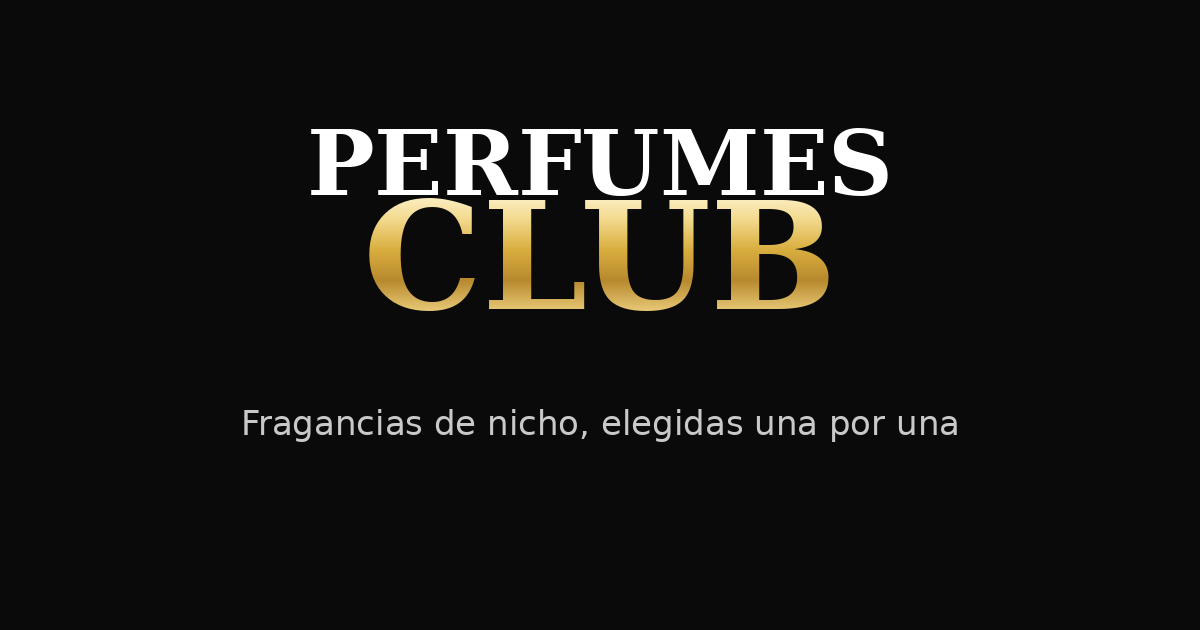
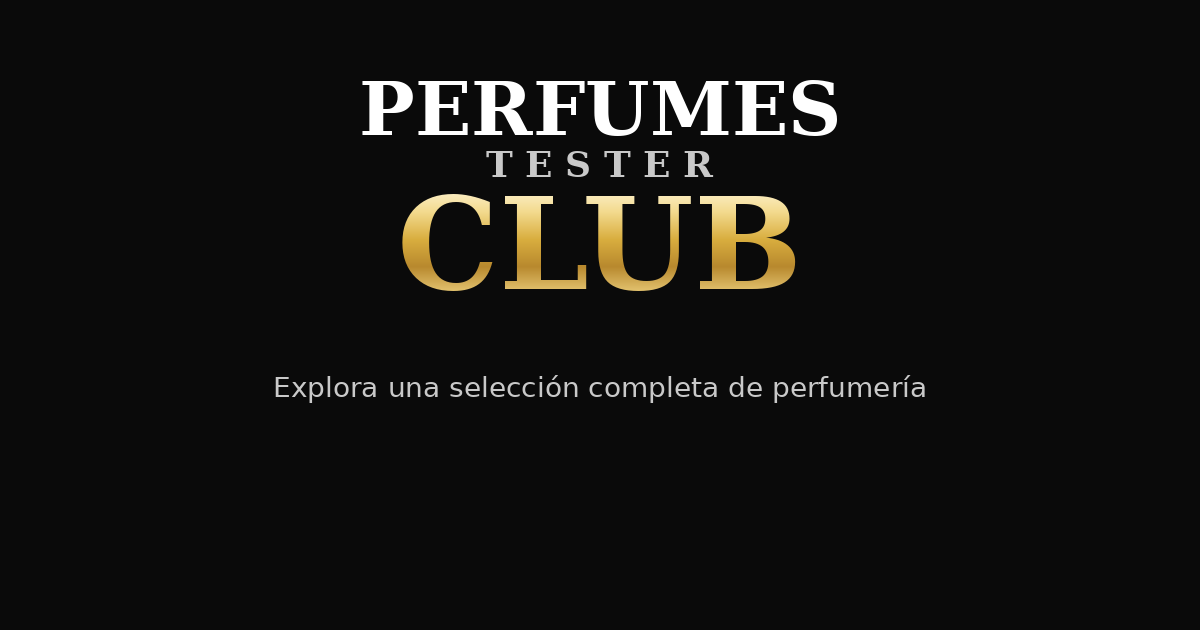
COSAS NUEVAS

Changed region(s): [[0.2467, 0.1206, 0.74, 0.5127], [0.185, 0.6032, 0.8017, 0.6937]]

diff --git a/sanity-schema/perfume.ts b/sanity-schema/perfume.ts
@@ -43,7 +43,6 @@ export default defineType({
           { title: "Hombre", value: "Hombre" },
           { title: "Mujer", value: "Mujer" },
           { title: "Unisex", value: "Unisex" },
-          { title: "Noche", value: "Noche" },
         ],
       },
       validation: (Rule) => Rule.required().min(1),
@@ -53,6 +52,82 @@ export default defineType({
       title: "Disponible",
       type: "boolean",
       initialValue: true,
+    }),
+    defineField({
+      name: "precio",
+      title: "Precio (CLP)",
+      type: "number",
+      validation: (Rule) => Rule.required().positive().integer(),
+    }),
+    defineField({
+      name: "volumenMl",
+      title: "Volumen (ml)",
+      type: "number",
+      description: "Ej: 100 (para un frasco de 100ml)",
+      validation: (Rule) => Rule.required().positive().integer(),
+    }),
+    defineField({
+      name: "variantes",
+      title: "Otras presentaciones (opcional)",
+      description:
+        "Si este perfume viene en más de un tamaño con precios distintos (ej: 50ml y 100ml), agrega cada uno aquí. El comprador podrá elegir el tamaño y el precio cambia solo. Si el perfume solo tiene una presentación, deja esto vacío.",
+      type: "array",
+      of: [
+        {
+          type: "object",
+          name: "variante",
+          fields: [
+            defineField({
+              name: "volumenMl",
+              title: "Volumen (ml)",
+              type: "number",
+              validation: (Rule) => Rule.required().positive().integer(),
+            }),
+            defineField({
+              name: "precio",
+              title: "Precio (CLP)",
+              type: "number",
+              validation: (Rule) => Rule.required().positive().integer(),
+            }),
+          ],
+          preview: {
+            select: { ml: "volumenMl", precio: "precio" },
+            prepare({ ml, precio }) {
+              return { title: `${ml} ml`, subtitle: `$${precio}` };
+            },
+          },
+        },
+      ],
+    }),
+    defineField({
+      name: "acordes",
+      title: "Acordes principales",
+      description:
+        "Las notas/acordes más representativos, ordenados de más a menos intensos (ej: Amaderado, Avainillado, Aromático...).",
+      type: "array",
+      of: [
+        {
+          type: "object",
+          name: "acorde",
+          fields: [
+            defineField({
+              name: "nombre",
+              title: "Nombre del acorde",
+              type: "string",
+              validation: (Rule) => Rule.required(),
+            }),
+            defineField({
+              name: "intensidad",
+              title: "Intensidad (0-100)",
+              type: "number",
+              validation: (Rule) => Rule.required().min(0).max(100),
+            }),
+          ],
+          preview: {
+            select: { title: "nombre", subtitle: "intensidad" },
+          },
+        },
+      ],
     }),
     defineField({
       name: "imagen",

diff --git a/public/carrito.js b/public/carrito.js
@@ -80,7 +80,7 @@ function renderPanel() {
     fila.className = "flex items-center justify-between gap-3 py-3 border-b border-black/10";
     fila.innerHTML = `
       <div class="min-w-0 flex-1">
-        <p class="truncate text-sm text-ink">${item.nombre}</p>
+        <p class="truncate text-sm text-ink">${item.nombre} — ${item.volumenMl}ml</p>
         <p class="text-xs text-ink/50">${formatCLP(item.precio)} c/u · ${formatCLP(subtotal)}</p>
       </div>
       <div class="flex shrink-0 items-center gap-2">
@@ -122,7 +122,39 @@ function inicializarBotonesAgregar() {
         nombre: boton.getAttribute("data-nombre"),
         marca: boton.getAttribute("data-marca"),
         precio: Number(boton.getAttribute("data-precio")),
+        volumenMl: Number(boton.getAttribute("data-volumen")),
         cantidad,
+      });
+    });
+  });
+}
+
+// Selector de presentaciones (ml) con precio propio por perfume.
+function inicializarVariantes() {
+  document.querySelectorAll("[data-variante-grupo]").forEach((grupo) => {
+    const botonesVariante = grupo.querySelectorAll(".variante-btn");
+    const precioDisplay = grupo.querySelector("[data-precio-display]");
+    const agregarBtn = grupo.querySelector("[data-agregar-carrito]");
+
+    botonesVariante.forEach((boton) => {
+      boton.addEventListener("click", () => {
+        botonesVariante.forEach((b) => {
+          b.classList.remove("border-ink", "bg-ink", "text-white");
+          b.classList.add("border-ink/20", "text-ink");
+        });
+        boton.classList.remove("border-ink/20", "text-ink");
+        boton.classList.add("border-ink", "bg-ink", "text-white");
+
+        const ml = boton.getAttribute("data-ml");
+        const precio = boton.getAttribute("data-precio");
+
+        if (precioDisplay) precioDisplay.textContent = formatCLP(precio);
+        if (agregarBtn) {
+          agregarBtn.setAttribute("data-precio", precio);
+          agregarBtn.setAttribute("data-volumen", ml);
+          const idBase = agregarBtn.getAttribute("data-id-base");
+          agregarBtn.setAttribute("data-id", `${idBase}-${ml}`);
+        }
       });
     });
   });
@@ -153,7 +185,7 @@ function inicializarPanel() {
     if (items.length === 0) return;
     const lineas = items.map(
       (item, i) =>
-        `${i + 1}. ${item.nombre} (${item.marca}) x${item.cantidad} - ${formatCLP(item.precio * item.cantidad)}`
+        `${i + 1}. ${item.nombre} (${item.marca}) - ${item.volumenMl}ml x${item.cantidad} - ${formatCLP(item.precio * item.cantidad)}`
     );
     const total = items.reduce((sum, item) => sum + item.precio * item.cantidad, 0);
     const numero = document.body.dataset.whatsapp;
@@ -183,6 +215,7 @@ function inicializarStepper() {
 }
 
 document.addEventListener("DOMContentLoaded", () => {
+  inicializarVariantes();
   inicializarBotonesAgregar();
   inicializarPanel();
   inicializarStepper();

diff --git a/src/config.ts b/src/config.ts
@@ -1,8 +1,9 @@
 // Cambia estos valores por los datos reales de tu amigo.
 export const siteConfig = {
   nombreLinea1: "Perfumes",
+  nombreMedio: "Tester",
   nombreLinea2: "Club",
-  nombre: "Perfumes Club",
+  nombre: "Perfumes Tester Club",
   tagline: "Explora una selección completa de perfumería para cada estilo, ocasión y personalidad.",
   whatsappNumero: import.meta.env.PUBLIC_WHATSAPP_NUMBER ?? "56900000000",
   instagramUsuario: "perfumesclub.cl",

diff --git a/src/data/perfumes.ts b/src/data/perfumes.ts
@@ -15,6 +15,10 @@ export const perfumesDeMuestra: Perfume[] = [
     precio: 45990,
     acordes: [{ nombre: "Amaderado", intensidad: 90 }, { nombre: "Avainillado", intensidad: 75 }, { nombre: "Cuero", intensidad: 55 }],
     volumenMl: 100,
+    variantes: [
+      { volumenMl: 50, precio: 32990 },
+      { volumenMl: 100, precio: 45990 },
+    ],
     imagen: "https://images.unsplash.com/photo-1592945403244-b3fbafd7f539?w=800&q=80",
   },
   {

diff --git a/src/types.ts b/src/types.ts
@@ -5,6 +5,11 @@ export interface Acorde {
   intensidad: number;
 }
 
+export interface Variante {
+  volumenMl: number;
+  precio: number;
+}
+
 export interface Perfume {
   _id: string;
   slug: string;
@@ -15,6 +20,7 @@ export interface Perfume {
   disponible: boolean;
   precio: number;
   volumenMl: number;
+  variantes?: Variante[];
   imagen: string;
   acordes?: Acorde[];
 }

diff --git a/src/lib/sanity.ts b/src/lib/sanity.ts
@@ -38,6 +38,7 @@ export const PERFUMES_QUERY = `*[_type == "perfume"] | order(nombre asc){
   disponible,
   precio,
   volumenMl,
+  variantes,
   acordes,
   "imagen": imagen.asset->url
 }`;
